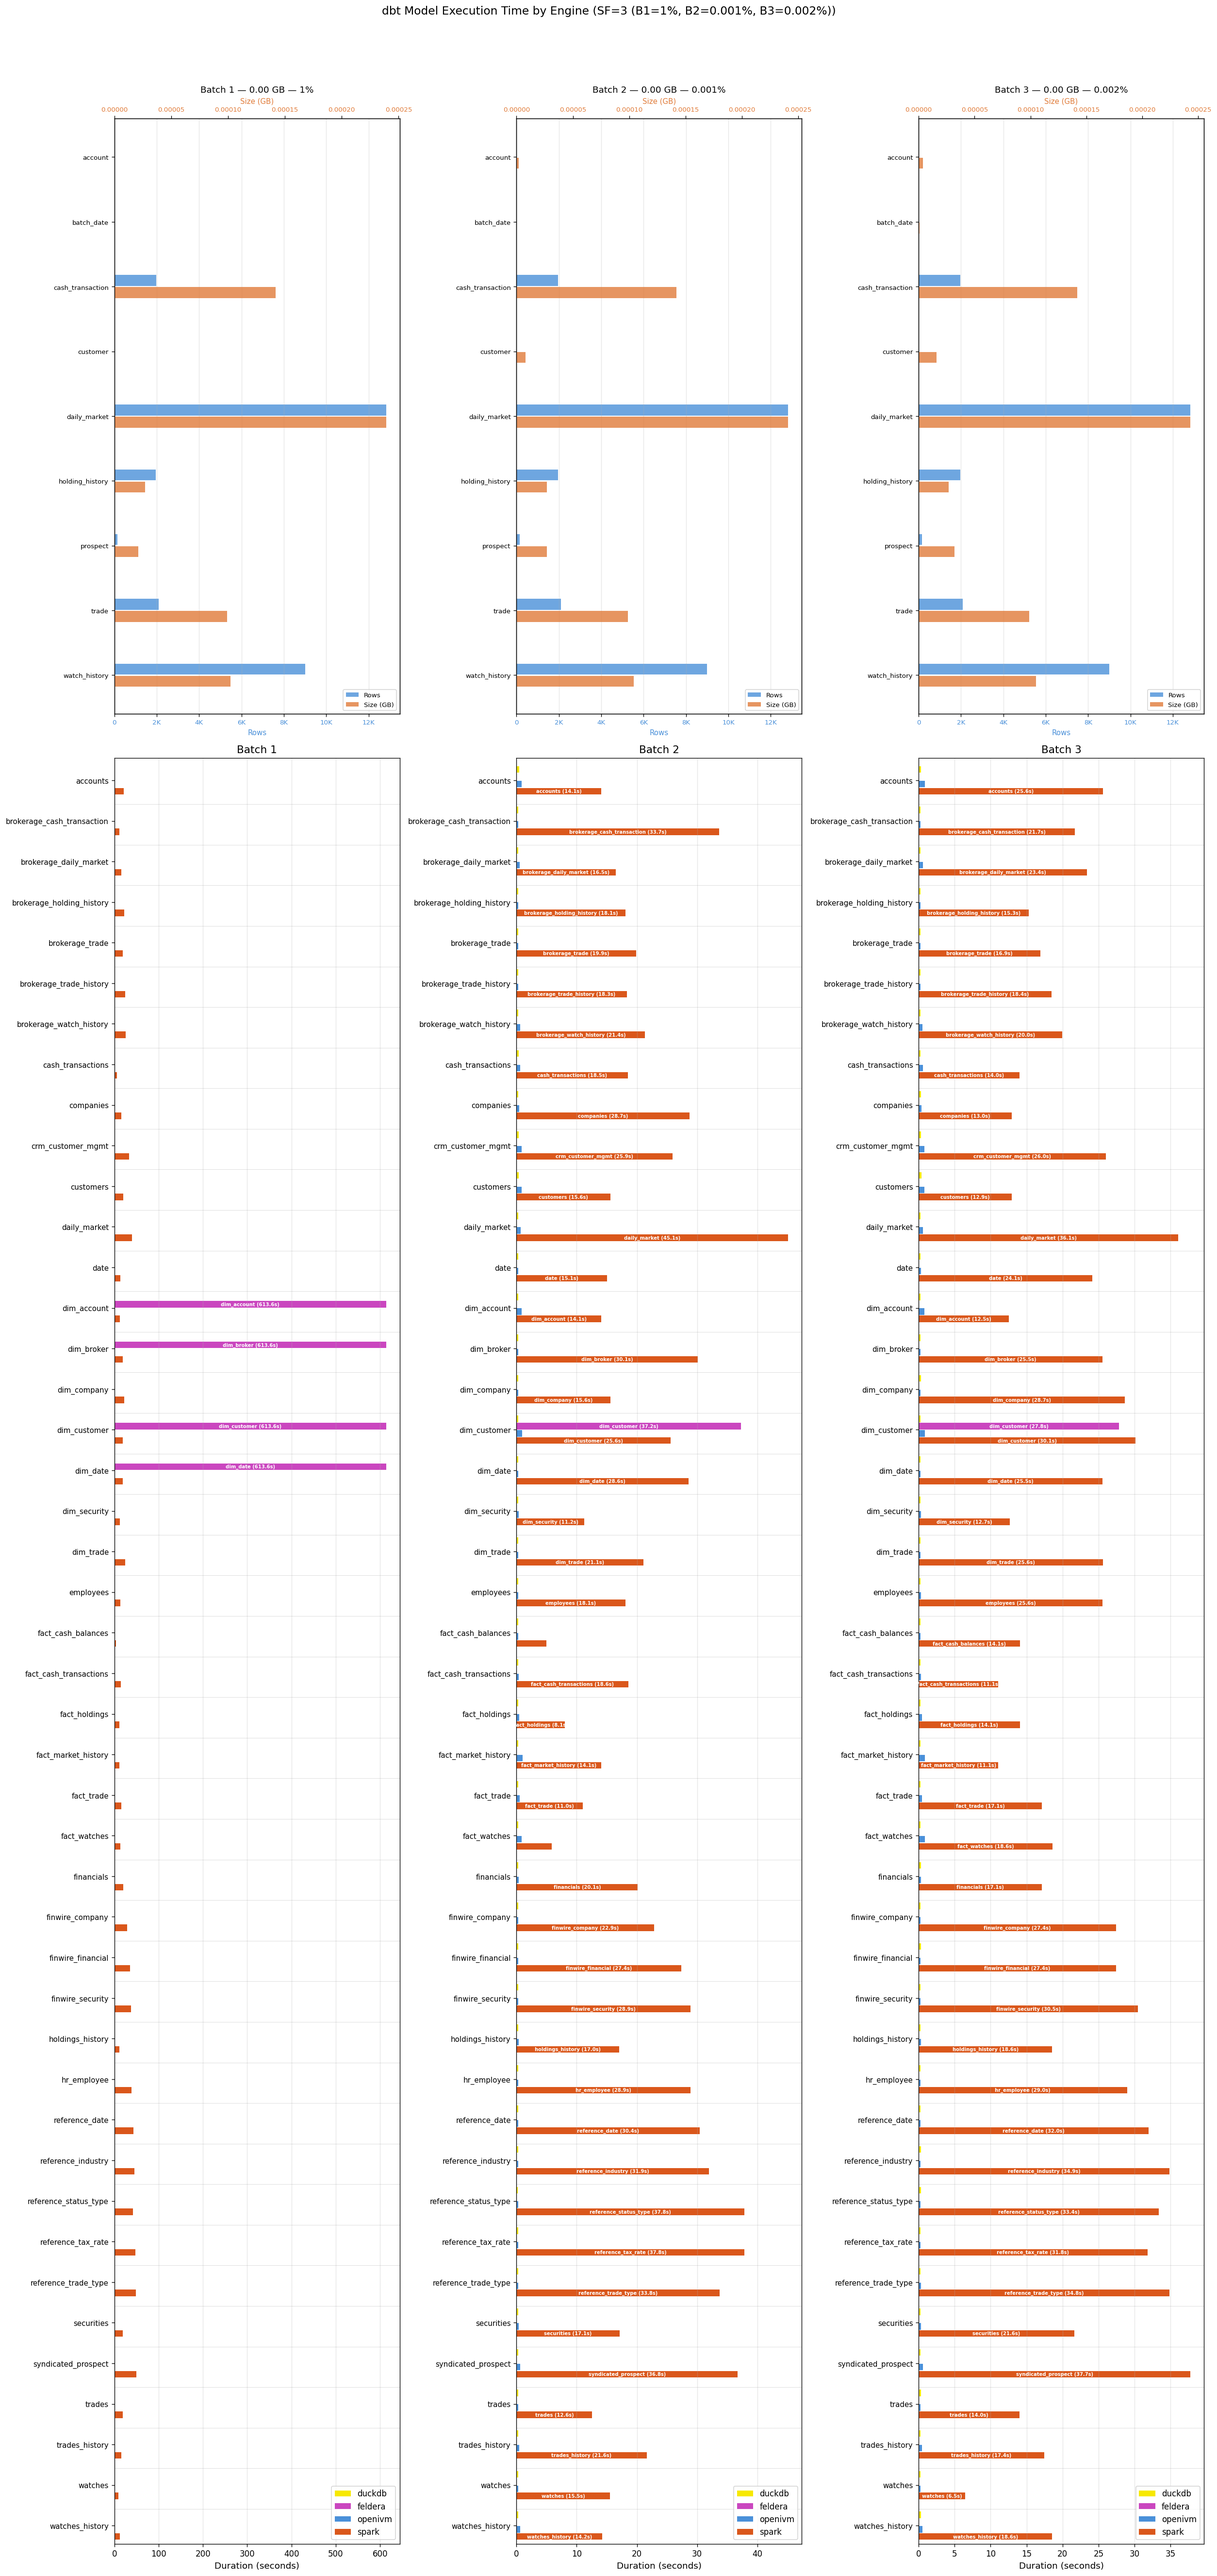
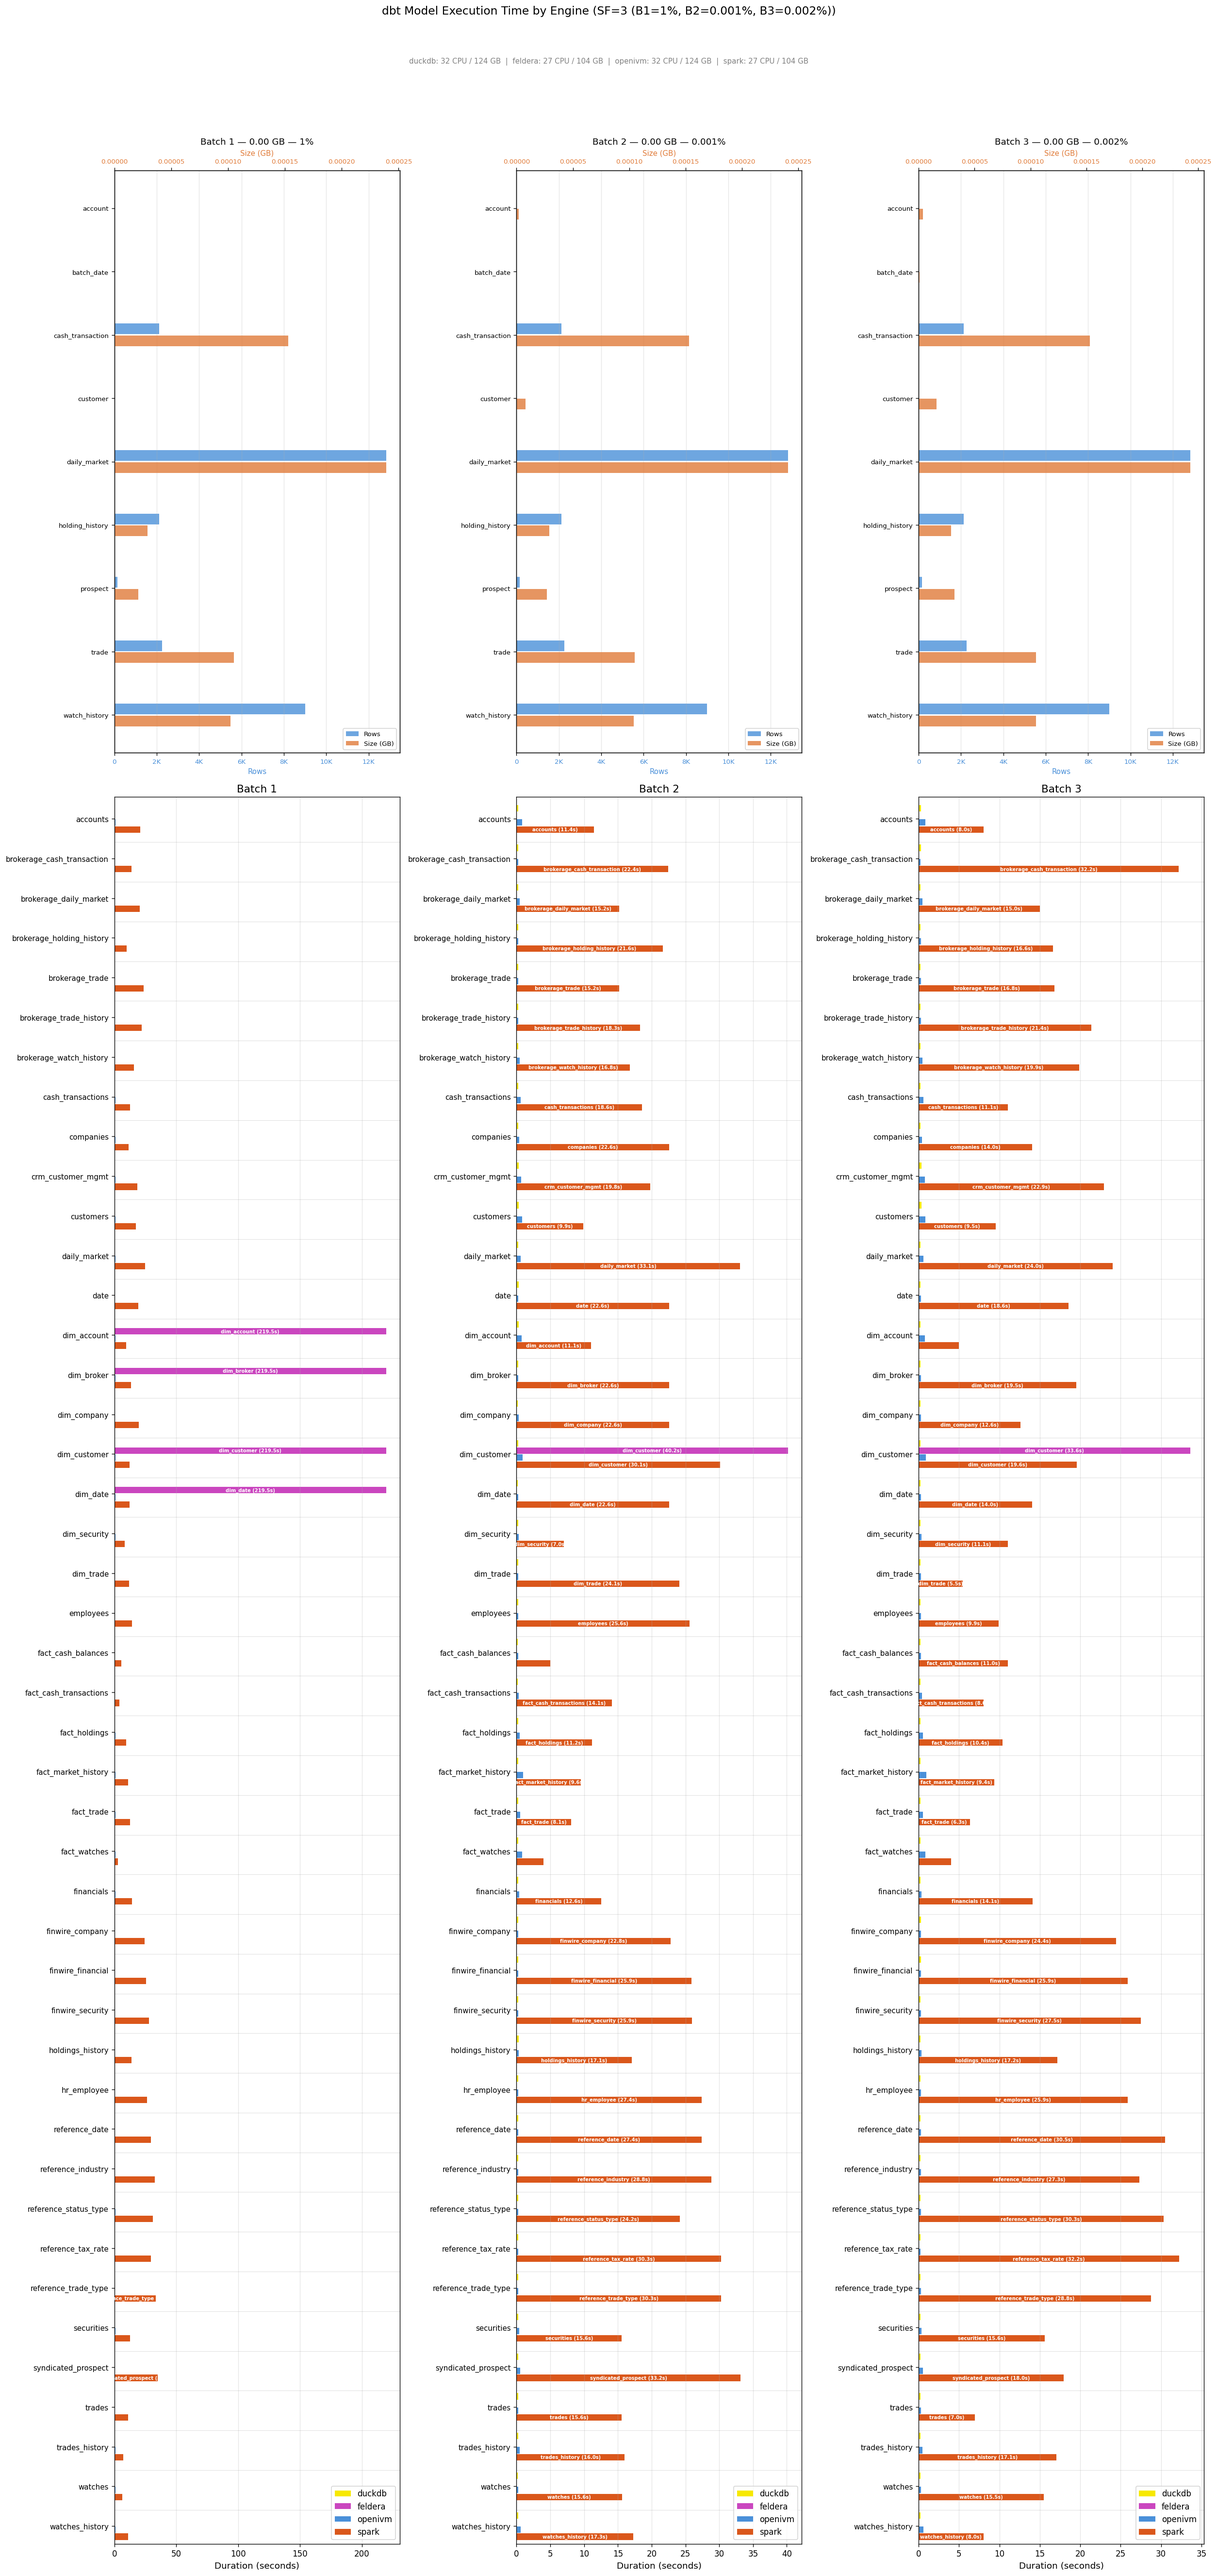
Add the resources used in the chart subtitle

diff --git a/src/containers/benchmark-server/services/orchestrator.py b/src/containers/benchmark-server/services/orchestrator.py
@@ -333,6 +333,7 @@ class Orchestrator:
         self.emit("=== Phase 2: Engine benchmarks ===")
 
         engine_configs = compute_engine_configs(self._config)
+        self._engine_configs = engine_configs
         engines = self._config.engines
 
         if self._config.parallel and len(engines) > 1:
@@ -502,12 +503,21 @@ class Orchestrator:
             b3 = self._config.batch_3_pct
             results_dir = os.path.join(repo, "mount", "results", str(sf), "dbt-server")
 
+            engine_resources = {}
+            if hasattr(self, "_engine_configs") and self._engine_configs:
+                for name, ecfg in self._engine_configs.items():
+                    engine_resources[name] = {
+                        "cpus": ecfg.main_resources.cpus,
+                        "memory_gb": ecfg.main_resources.memory_gb,
+                    }
+
             png_data = generate_chart_png(
                 state_dir=results_dir,
                 sf=str(sf),
                 b1pct=b1,
                 b2pct=b2,
                 b3pct=b3,
+                engine_resources=engine_resources,
             )
             if png_data:
                 b1_slug = b1.replace(".", "_")

diff --git a/src/containers/benchmark-server/handlers/chart.py b/src/containers/benchmark-server/handlers/chart.py
@@ -38,6 +38,7 @@ def generate_chart_png(
     b1pct: str = "",
     b2pct: str = "",
     b3pct: str = "",
+    engine_resources: Optional[dict] = None,
 ) -> Optional[bytes]:
     """Generate a PNG chart from result JSON files in state_dir.
 
@@ -219,7 +220,15 @@ def generate_chart_png(
     pct_parts = [f"B{b}={batch_pcts.get(b, '?')}%" for b in batches if batch_pcts.get(b)]
     pct_label = f" ({', '.join(pct_parts)})" if pct_parts else ""
     fig.suptitle(f"dbt Model Execution Time by Engine (SF={sf}{pct_label})", fontsize=14, y=0.99)
-    plt.tight_layout(rect=[0, 0, 1, 0.97])
+    if engine_resources:
+        parts = []
+        for eng in sorted(engine_resources.keys()):
+            r = engine_resources[eng]
+            parts.append(f"{eng}: {r['cpus']} CPU / {r['memory_gb']} GB")
+        subtitle = "  |  ".join(parts)
+        fig.text(0.5, 0.97, subtitle, ha="center", va="top", fontsize=9, color="gray")
+
+    plt.tight_layout(rect=[0, 0, 1, 0.95])
 
     buf = BytesIO()
     fig.savefig(buf, format="png", dpi=120, bbox_inches="tight")

diff --git a/.github/pull_request_template.md b/.github/pull_request_template.md
@@ -1,0 +1,25 @@
+> [!NOTE]
+> Thank you for making change! Please consider filling this template for your pull request to improve quality of checkin message.
+
+> [!TIP]
+> This repo uses [Conventional Commit conventions](https://www.conventionalcommits.org/en/v1.0.0/) - please try to rename your PR headline to match it.
+
+# Why this change is needed
+
+Describe what issue this change is trying to address.
+
+If this is a bug fix, please describe
+
+- How the bug was discovered.
+- Is there a repro for the bug.
+
+# How
+
+Describe how the change works.
+
+- What are some considerations that the reviewer should be aware of.
+- Are there other known solutions and why this one is picked of them all?
+
+# Test
+
+- What tests have been run? Please describe any verification steps you used.
